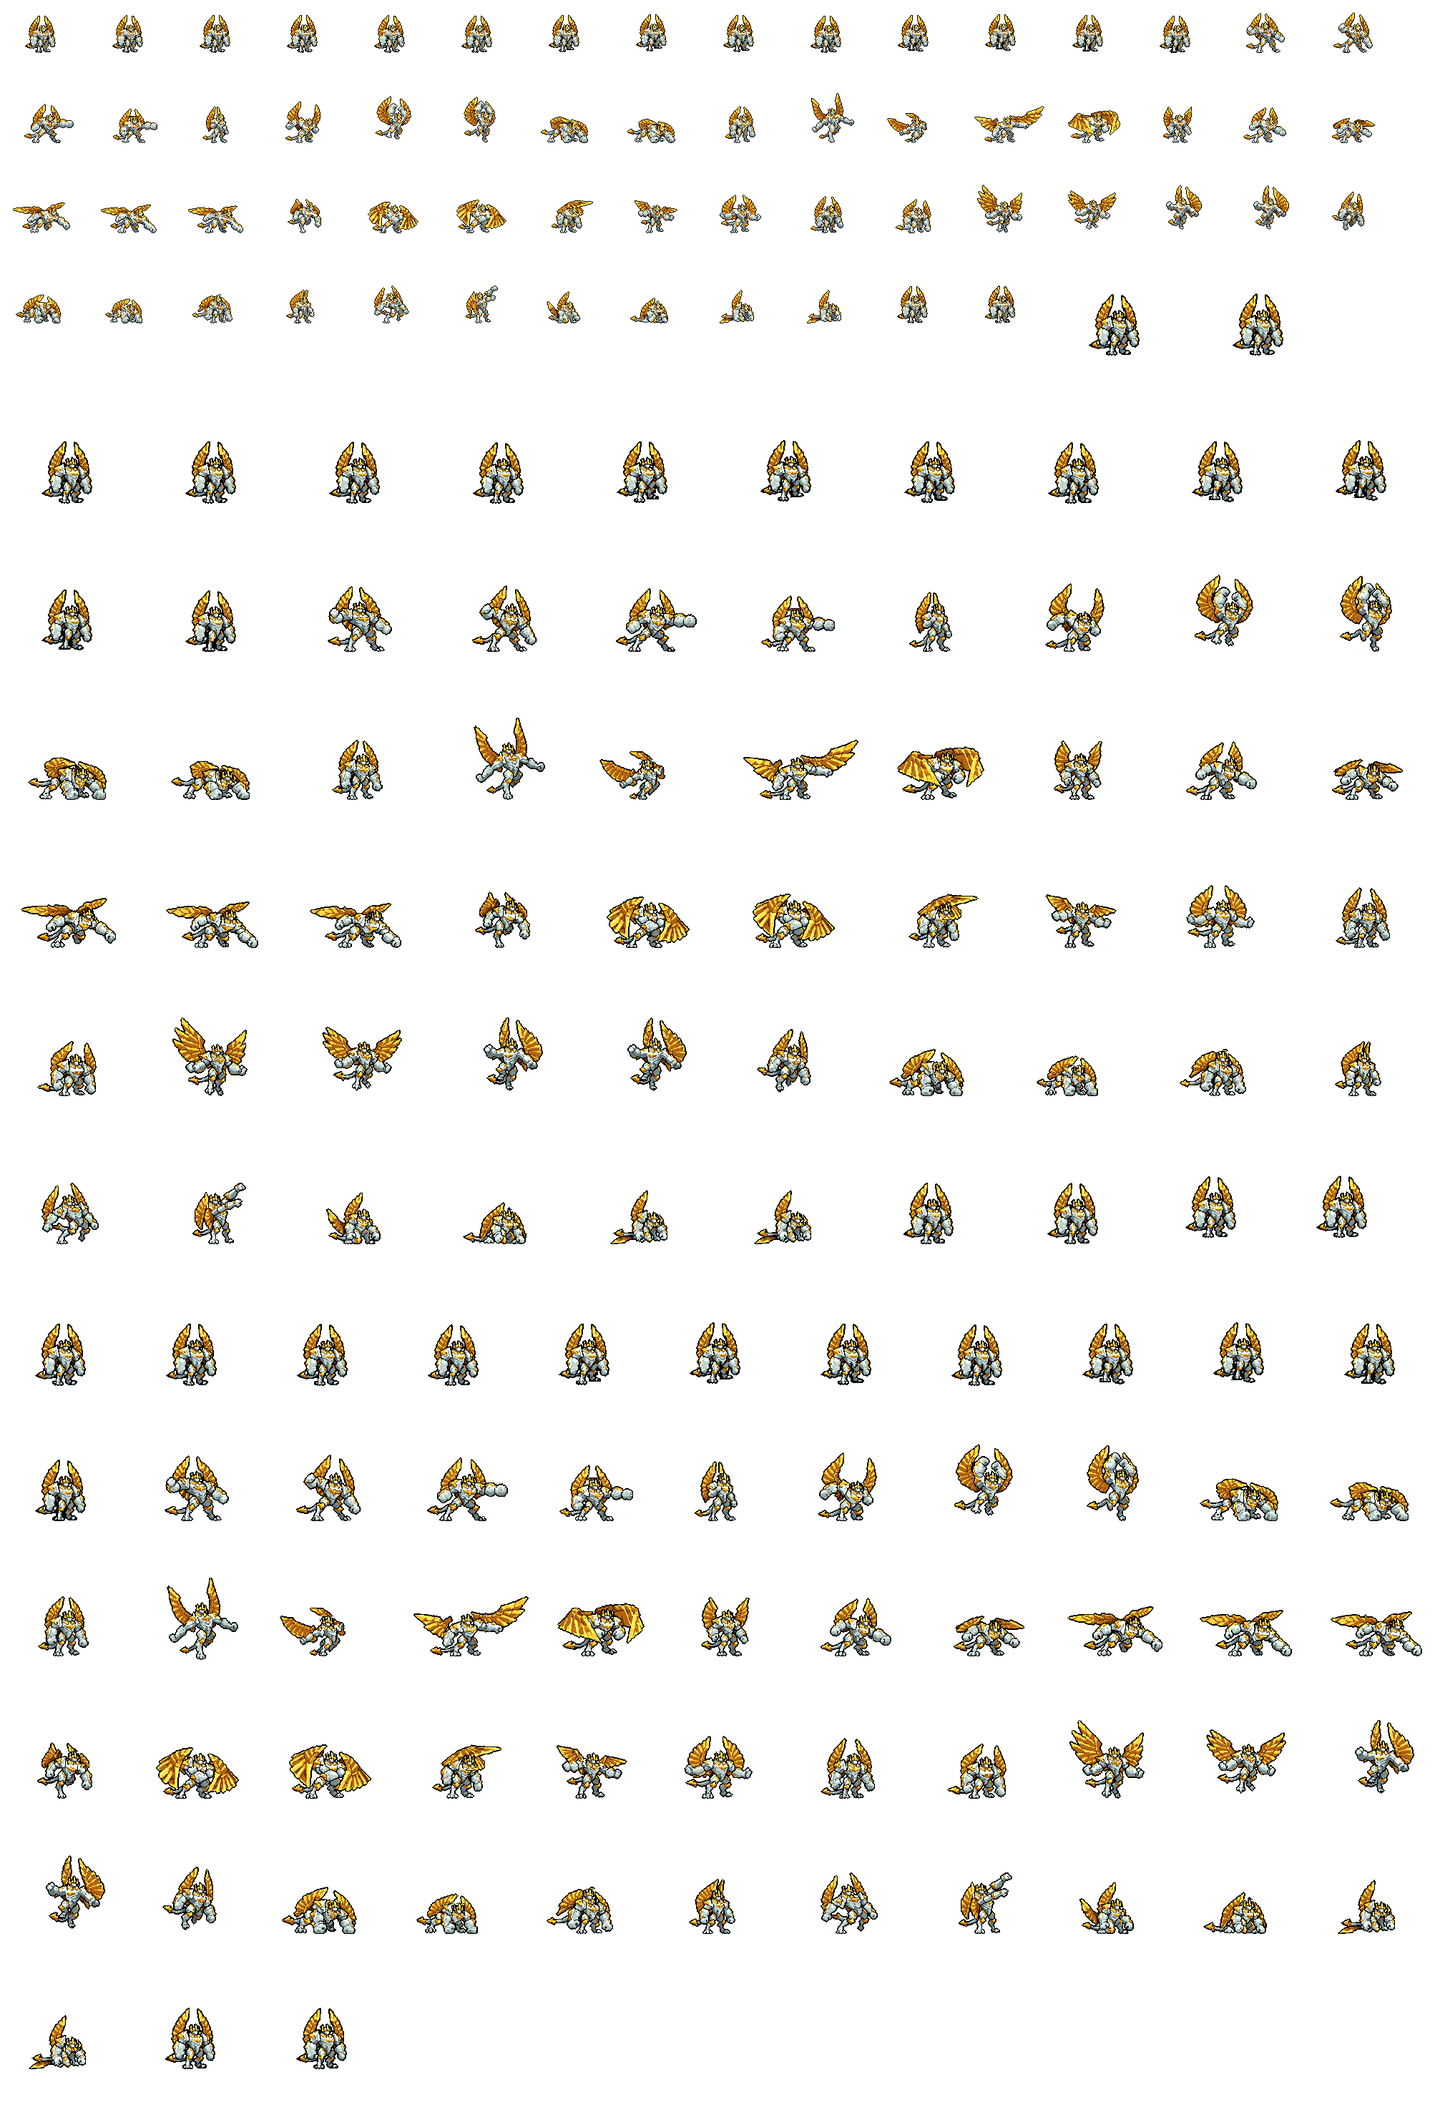
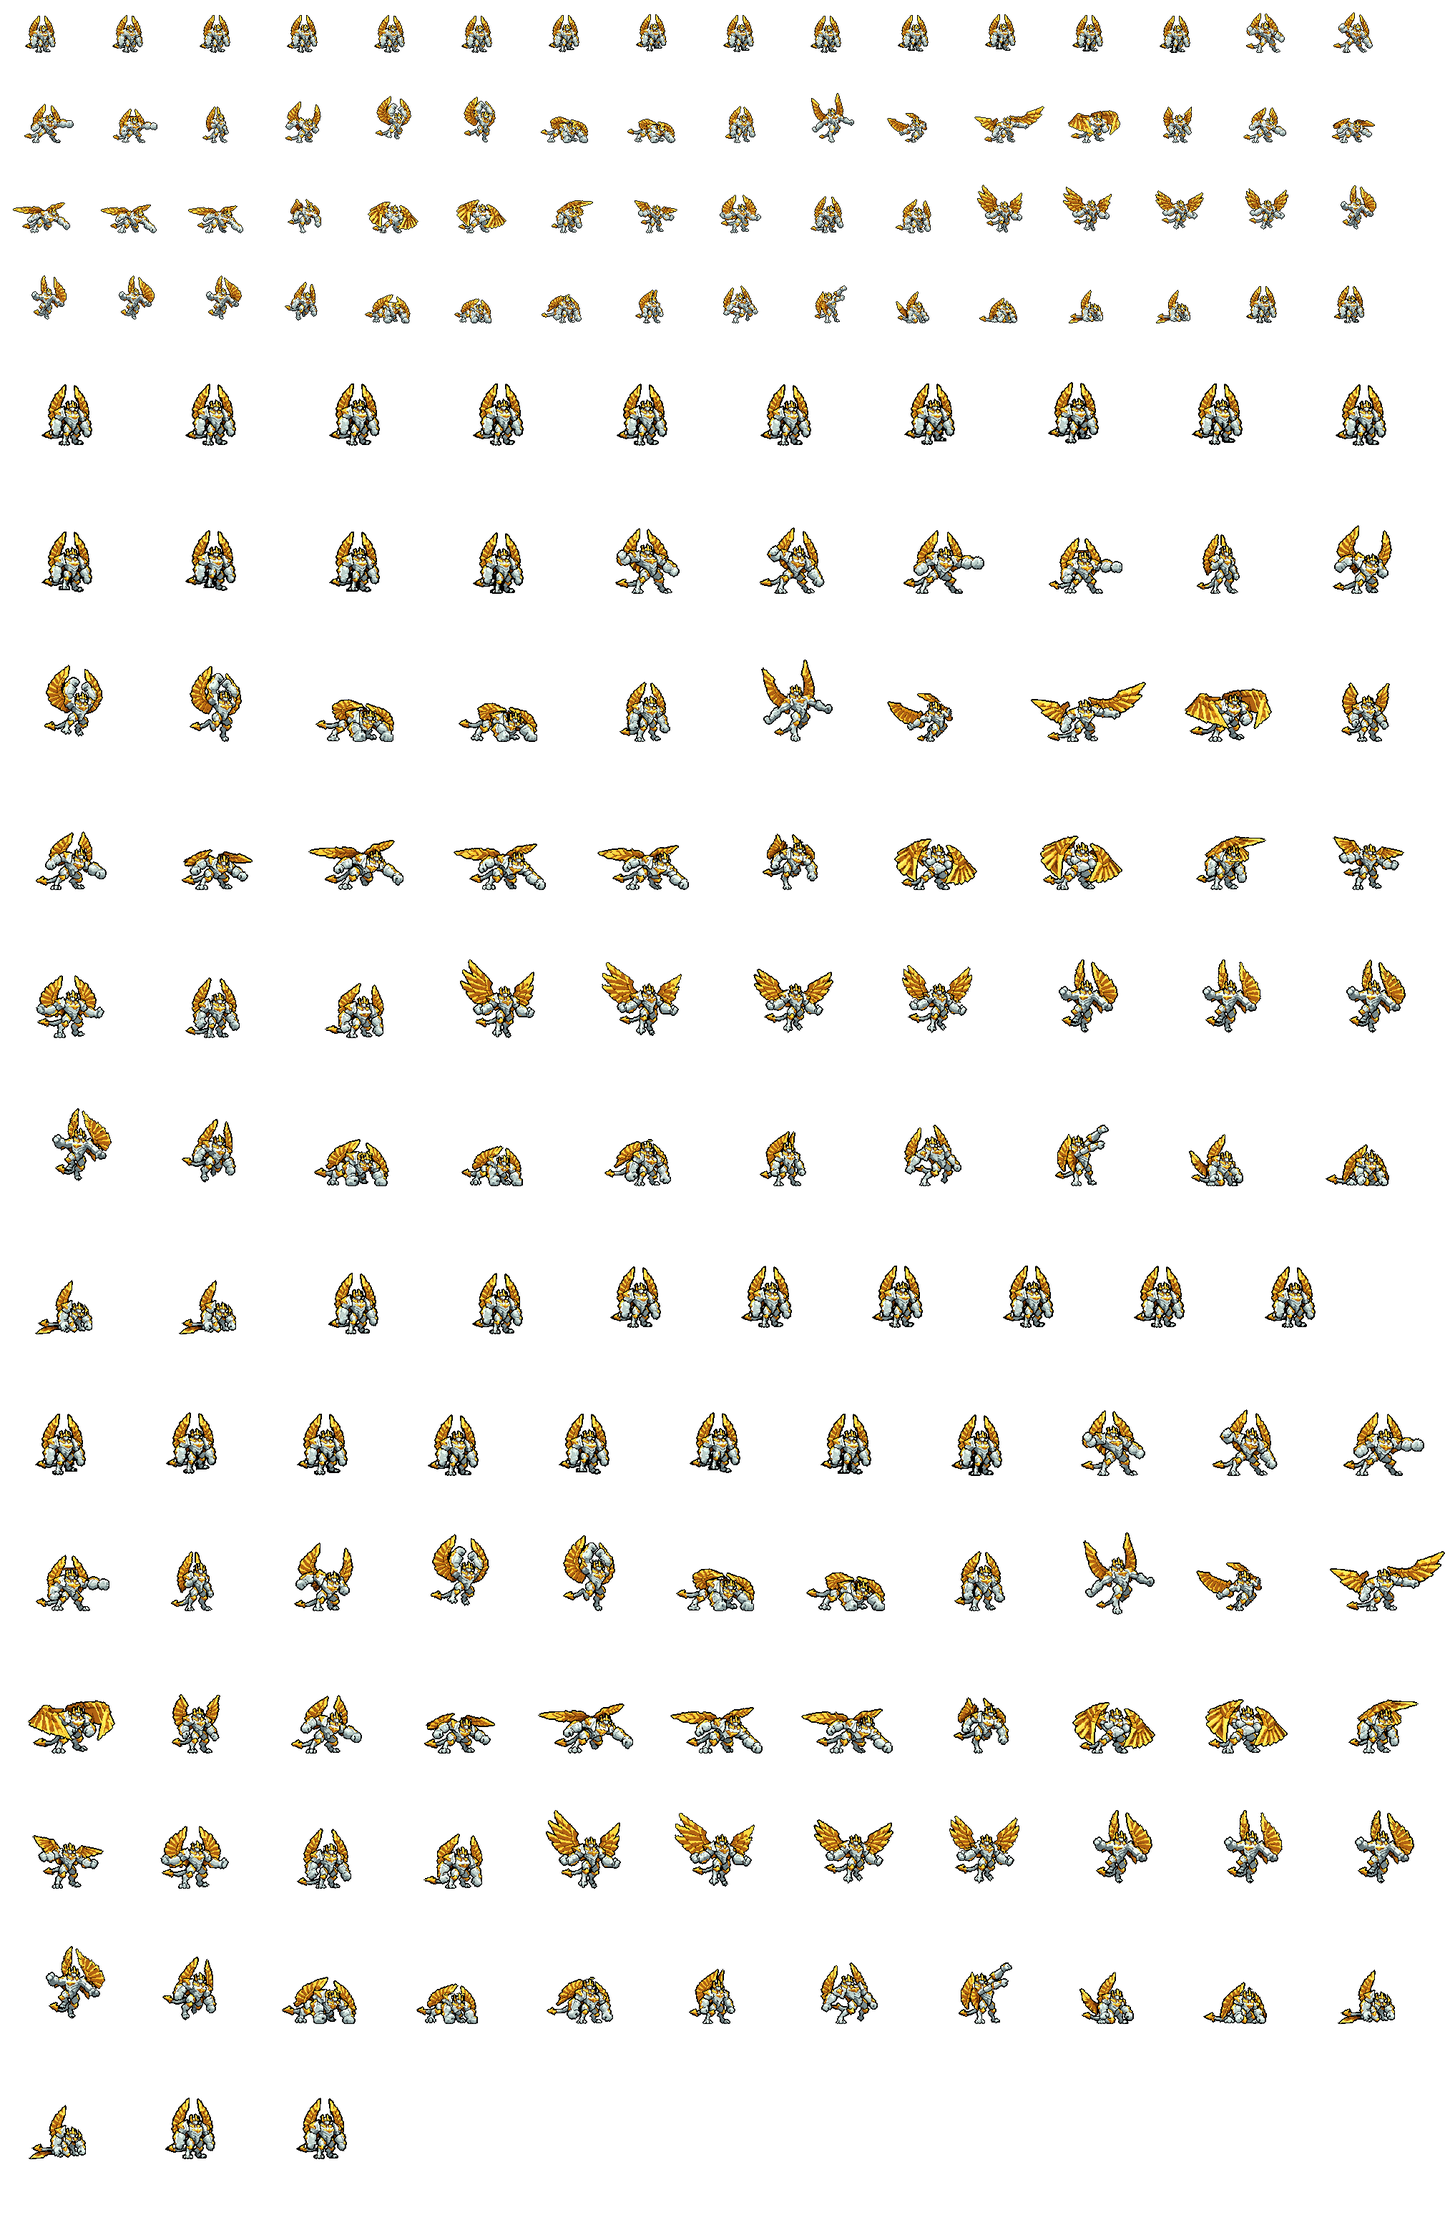
加里奥动作补帧：R 起跳 3 帧 -> 5 帧 5 姿势、R 悬停 2 帧 -> 4 帧 4 姿势（翅膀绕肩转、远处的翅膀按行摆；中间帧用 Codex 自己的帧做）
用户：「还有有的动画感觉只有一帧 不如oppi的地方都要补 参考联盟的动画」「动画你觉得少的地方就想办法补」。
对照表里 R 英雄登场的起跳 3 帧 0.26 秒（蹲下、张翅起跳、在空中展翅）；起跳后整段引导（1.7 秒）放的悬停 ult_loop 只有
2 张、各 120 毫秒，两张只有羽毛花纹不一样，看起来是一张定住。Codex 那套里 R 只画了这几张（cells.json：起跳 3、悬停 2）。
没有新画，没有交给 Codex，没有用图像模型。数法：「几帧，其中几个不同的姿势」。

- 先确认谁写的图集：图集最后一次提交是 245de0a92（10-17，恢复 #326 删掉的文件），真正写它的是 357c99e59（10-14）的
  tools/art/rig_galio.py；他不走 ppu_restyle：rig_galio.py -> ppu_hd.py --hero galio -> hero_reels.py --hero galio 三步，
  在干净的树上重跑逐字节复现（图集、fanim、条带的 md5 都相同）
- tools/art/rig_galio.py：INB 表 + winged()：Codex 的原帧之后加中间帧——每只翅膀按颜色挑（WINGS：画布上的框里、和给定
  那格连着的金、棕色羽毛，连同外描边最多 3 格深，不含挨着石头的描边），交给 inbetween.vary 绕它从肩膀长出来的地方转
  （inbetween.spin，根部藏到肩后；翅膀在所有东西后面，转开不会露出没画的地方）；悬停时远处那只翅膀的根在头冠后面，只把
  头冠以上的部分按行整格往旁边摆（rows_wave，头冠那行不动，翅尖 k 列）。每帧核对翅膀以外逐格没变。动作：
  R 起跳：蹲下 60 | 张翅起跳 50 | 往上抬 4 格、翅膀往下展开 10 度 50 | 在空中展翅 50 | 翅膀往上收 12 度（往悬停去）50
  R 悬停：悬停 1 | 近处翅膀往外 8 度、远处翅尖往外 5 格 | 悬停 2 | 往里 6 度 / 3 格，4 x 60
- 时间：总时长不变（起跳 260 = r_wind 16 tick，里面没有判定；悬停一圈 240，引导时长是技能数据的，没碰），没有短于
  50 毫秒的新帧；tools/kit、.data_champion 没碰（11-07 改过的 R 引导只在数据里，这里只动帧）
- 大小：头、身子、手臂逐格没变；翅膀只转不缩，转完还是一样长；起跳那张抬的 4 格是到空中那张的 9 格的一半
- 其余动作（连同 hd_、lo_ 和待机共 33 个标签）逐帧像素、时长都没变；tools/art/hero_reels.json 不用改（待机剪 W 和普攻）。
  选人卡片还是 Q、E、R、普攻，R 那段五张都放（35 -> 37 帧，一圈还是 14930 毫秒）
- 图集和 fanim 重新生成：2020x2970 -> 2020x3096
- docs/heroes/league_galio.md「开发记录」加一行

不满意的地方：蹲下到起跳那一下还是一步跳过去（蹲着时左翅膀压在肩膀前面，转开会露出没画的肩膀，试过、放弃）；转过的
翅膀羽毛条纹比原画碎一点；W 引导的两张（翅膀裹在身前）没动：翅膀盖着身子，挪开会露出没画的地方。
[…]

diff --git a/tools/art/rig_galio.py b/tools/art/rig_galio.py
@@ -26,6 +26,10 @@ then adds the hd_ / lo_ tags). Drawn at PPU 2.0 (76 squares crown to soles = 38 
 100 % and 1.5 squares a game pixel - the user, 2026-10-13: 「加里奥在局内看起来太小了」「而且在局内还是太高清了加里奥」
 (he was PPU 2.0 at 85 %), picked from sheets of 85-110 % and of 2.0 / 1.5 / 1.2 / 1 squares a game pixel (1 tried:
 「1太糊了 用1.5」).
+The in-betweens (tools/art/inbetween.py; the user, 2026-11-14: 「还有有的动画感觉只有一帧 不如oppi的地方都要补 参考联盟的动画」,
+「动画你觉得少的地方就想办法补」): Hero's Entrance's take-off and its hover get frames made from Codex's own - the wings turned
+about where they leave his shoulders, the far wing above his crown waved by rows (INB), everything else of the picture
+checked unchanged.
 """
 import argparse
 import io
@@ -43,6 +47,7 @@ ROOT = os.path.dirname(os.path.dirname(HERE))
 sys.path.insert(0, os.path.join(ROOT, ".claude", "skills", "tfm2-hero-mod", "scripts"))
 sys.path.insert(0, HERE)
 import design_galio_hd as DG  # noqa: E402
+import inbetween as IB  # noqa: E402
 import pixel_down as PD  # noqa: E402
 import strips as G  # noqa: E402
 
@@ -562,6 +567,115 @@ def walk_frame(idle, near_step, far_step, rise):
     return np.roll(out, -rise, axis=0)
 
 
+# ------------------------------------------------------------------------------------------------ the in-betweens
+# 2026-11-14: Hero's Entrance's take-off was three drawings in 260 ms (r_wind 16 ticks: crouched, leaping with the wings
+# up, in the air with them spread) and the hover he holds through the channel (1.7 s) two drawings 120 ms each that
+# differ only in the wings' feathers. Codex drew no more. Made from its own frames: each wing turned about where it
+# leaves his shoulder (inbetween.spin, the root going in under the shoulder; a wing lies behind everything, so nothing
+# undrawn shows) - and the hover's far wing, whose root is behind his crown, waved by rows above the crown instead
+# (rows_wave). WINGS: (tag, drawn frame) -> {wing: (box (x0, y0, x1, y1) on the canvas, a square of the wing, the
+# point it turns about or ("rows", the row it stays on, its tip's row))}; the wing is its warm squares (gold, brown,
+# the feathers' deep brown) in the box, in the piece holding that square, with its outline up to 3 squares deep where
+# the outline does not edge the stone. INB: tag -> ([(drawn frame, {wing: degrees clockwise on screen | columns at the
+# tip}, rows the whole frame is lifted)], ms): the leap's wings 10 degrees on their way down to the spread, lifted 4 of
+# the 9 rows to the airborne frame; the spread wings 12 degrees on their way back up to the hover's; the hover beats
+# - wings out (near 8 degrees, far tip 5 columns), back, in (6 / 3) - 4 x 60, still 240 a loop.
+WING_PAD = 30
+WINGS = {
+    ("ult", 1): {"left": ((15, 3, 82, 86), (40, 40), (77, 75)), "right": ((100, 20, 150, 86), (130, 50), (106, 75))},
+    ("ult", 2): {"left": ((25, 18, 85, 86), (50, 45), (80, 73)), "right": ((108, 20, 168, 86), (140, 45), (114, 72))},
+    ("ult_loop", 0): {"far": ((80, 0, 106, 42), (95, 20), ("rows", 42, 8)),
+                      "near": ((112, 5, 160, 90), (130, 40), (121, 64))},
+    ("ult_loop", 1): {"far": ((80, 0, 106, 42), (95, 20), ("rows", 42, 8)),
+                      "near": ((112, 5, 160, 90), (130, 40), (121, 64))},
+}
+INB = {"ult": ([(0, {}, 0), (1, {}, 0), (1, {"left": -10, "right": 10}, 4), (2, {}, 0), (2, {"left": 12, "right": -12}, 0)],
+               [60, 50, 50, 50, 50]),
+       "ult_loop": ([(0, {}, 0), (0, {"far": -5, "near": 8}, 0), (1, {}, 0), (1, {"far": 3, "near": -6}, 0)],
+                    [60, 60, 60, 60])}
+
+
+def warm(a):
+    """The gold and brown squares (the wings, the crown, the trims; not the stone, not the outline)."""
+    rgb = a[..., :3].astype(int)
+    r, g, b = rgb[..., 0], rgb[..., 1], rgb[..., 2]
+    deep = (rgb.sum(-1) >= 70) & (r >= g) & (g >= b) & (r - b >= 10)        # the feathers' deep brown (44, 35, 30)
+    return (a[..., 3] > 0) & (((r > 90) & (r > b + 50)) | deep)
+
+
+def wing_mask(a, box, seed, depth=3):
+    """A wing on a canvas: its warm squares in box (x0, y0, x1, y1 incl.) in the piece holding seed (x, y), with the
+    outline round them `depth` squares deep where it does not edge the stone."""
+    x0, y0, x1, y1 = box
+    inb = np.zeros(a.shape[:2], bool)
+    inb[y0:y1 + 1, x0:x1 + 1] = True
+    lab, _ = ndimage.label(warm(a) & inb, structure=np.ones((3, 3)))
+    if not lab[seed[1], seed[0]]:
+        sys.exit(f"wing_mask: {seed} is not a wing square")
+    m = lab == lab[seed[1], seed[0]]
+    dark = (a[..., 3] > 0) & (a[..., :3].astype(int).sum(-1) < 70) & inb
+    stone = (a[..., 3] > 0) & ~warm(a) & ~dark
+    edge = ndimage.binary_dilation(stone, structure=IB.CROSS)
+    for _ in range(depth):
+        grow = ndimage.binary_dilation(m, structure=IB.CROSS) & dark & ~m & ~edge
+        if not grow.any():
+            break
+        m |= grow
+    return m
+
+
+def rows_wave(shape, y0, y1, k):
+    """The moves of a rising wing's sway (rig_aurelionsol's): its whole rows shifted sideways, nothing on row y0 and k
+    columns (negative: to the left) on row y1 at its tip, the rows past the tip going with it. -> (dx, dy) arrays."""
+    H, W = shape[:2]
+    dx = np.zeros((H, W), int)
+    for y in range(H):
+        t = min(max((y - y0) / (y1 - y0), 0.0), 1.0)
+        dx[y, :] = int(round(k * t))
+    return dx, np.zeros((H, W), int)
+
+
+def mask_runs(m):
+    """A mask as row runs (x0, y, x1, y), boxes for inbetween.vary."""
+    out = []
+    for y in range(m.shape[0]):
+        xs = np.nonzero(m[y])[0]
+        if not len(xs):
+            continue
+        cut_ = np.nonzero(np.diff(xs) > 1)[0]
+        out += [(int(p), y, int(q), y) for p, q in zip(np.r_[xs[0], xs[cut_ + 1]], np.r_[xs[cut_], xs[-1]])]
+    return out
+
+
+def winged(can, tag, i, turns, lift):
+    """A drawn canvas with its wings turned / waved (inbetween.vary: the rest checked unchanged), `lift` rows higher."""
+    if not turns and not lift:
+        return can.copy()
+    out = can
+    if turns:
+        spec = WINGS[(tag, i)]
+        parts = {w: mask_runs(wing_mask(can, spec[w][0], spec[w][1])) for w in turns}
+        spins, moves = [], []
+        for w, k in turns.items():
+            about = spec[w][2]
+            if about[0] == "rows":
+                moves.append((w, rows_wave(can.shape, about[1], about[2], k), "under"))
+            else:
+                spins.append((w, about, k, "under"))
+        big = IB.vary(can, parts, OUTLINE, moves=moves, spins=spins, pad=WING_PAD, name=f"{tag} {i} wings {turns}")
+        P = WING_PAD
+        inner = np.zeros(big.shape[:2], bool)
+        inner[P:-P, P:-P] = True
+        if (big[..., 3][~inner] > 0).any():
+            sys.exit(f"{tag} {i}: a turned wing leaves the canvas")
+        out = big[P:-P, P:-P].copy()
+    if lift:
+        if (out[:lift, :, 3] > 0).any():
+            sys.exit(f"{tag} {i}: lifted off the canvas")
+        out = np.roll(out, -lift, axis=0)
+    return out
+
+
 def actions():
     table, pal = lut()
     cells = json.load(open(os.path.join(CODEX, "cells.json"), encoding="utf-8"))
@@ -577,6 +691,9 @@ def actions():
            "run": [(pinholes(close_all(specks(walk_frame(idle, n_, f_, r_))), 2), WALK_MS) for n_, f_, r_ in WALK]}
     for tag in TAGS:
         out[tag] = [(frame(tag, f["index"] + 1, table, pal), f["ms"]) for f in sorted(by_tag[tag], key=lambda f: f["index"])]
+    for tag, (seq, ms_) in INB.items():                  # (the drawn frames, then the in-betweens made from them)
+        drawn = [c for c, _ in out[tag]]
+        out[tag] = [(winged(drawn[i], tag, i, turns, lift), m) for (i, turns, lift), m in zip(seq, ms_)]
     out["hit"] = [(on_canvas(d, dx=-2), 80.0), (on_canvas(d, dx=-1), 120.0)]
     return out
 

diff --git a/docs/heroes/league_galio.md b/docs/heroes/league_galio.md
@@ -86,6 +86,7 @@
 | 特效 | Codex 生图的 17 张（用户贴来的一张总览图，[`tools/art/import_galio.py`](../../tools/art/import_galio.py) 按卡萨丁 / 布隆的做法切格：去掉深色底、每个特效一个缩放、颜色贴回风 / 蓝色魔法 / 金色 / 尘土 / 碎石五套配色；w_ps 里 Codex 画的人形剪影去掉；风刃的细线先加粗再缩；只画了一两帧的按生长、循环、淡出补齐，龙卷风按颜色在轮廓里往上滚表现旋转）。红色方的对称逐格检查：风刃上下对称、沿飞行方向转，其余全部左右对称。龙卷风和大招引导各铺满 2 秒。大招落地一开始只闪 60 毫秒、GIF 里看不出（用户：「大招落地的效果没有？怎么gif图里看不出」），改成停 650 毫秒、画在单位上面；用户又说「这个R的特效做大点啊」「加里奥的R特效这么小？」，落地冲击环从 46 宽放到 84（正好盖住 22000 的落地范围），引导的金光 50 → 64 高，打中 24 → 32 |
 | 音效 | 英雄联盟的音效和配音（`tools/lol/extract_galio.py`）：石拳 / 打中、被动蓄力 / 砸中、Q 扇风 / 龙卷风、E 冲出 / 打中、W 举盾 / 放开、R 起飞 / 给队友的护盾 / 落地；Q、W、E、R 各用他自己的台词（片段名 `league_galio_sfx_vo_*`，和声音名不同）。版权属于 Riot Games，**不提交到仓库**，按下面的命令在本地生成 |
 | 图标 | 官方技能图标（Q 战争罡风 / E 正义冲拳 / R 英雄登场，另有 W 杜朗护盾、被动），从本地客户端提取，缩到 64×64 |
+| 动作补帧（2026-11-14） | 用户：「还有有的动画感觉只有一帧 不如oppi的地方都要补 参考联盟的动画」「动画你觉得少的地方就想办法补」。对照表里 R 英雄登场的起跳只有 3 帧 0.26 秒（蹲下、张翅起跳、在空中展翅）；起跳后整段引导（1.7 秒）放的悬停只有 2 张、各 120 毫秒，两张只有羽毛的花纹不一样，看起来就是一张定住。Codex 那套里 R 只画了这几张。没有新画，也没交给 Codex：[`tools/art/inbetween.py`](../../tools/art/inbetween.py) 用 Codex 自己的帧做中间帧——每只翅膀按颜色挑出来（金、棕色的羽毛连同外描边），绕它从肩膀长出来的地方转（RotSprite 的办法，任意角度），根部藏到肩后；悬停时远处那只翅膀的根在头冠后面，只把头冠以上的部分按行整格往旁边摆；其余逐格不变（[`tools/art/rig_galio.py`](../../tools/art/rig_galio.py) 的 INB 表，每帧核对）。下面写的是「几帧，其中几个不同的姿势」。**R 起跳** 3 帧（3 个姿势）→ 5 帧，其中 5 个：蹲下 60 毫秒；张翅起跳 50；往上抬 4 格、翅膀往下展开 10 度 50；在空中展翅 50；翅膀往上收 12 度（往悬停的样子去）50，一共还是 260 毫秒（技能数据的 16 tick，里面没有判定）。**R 悬停** 2 帧（2 个）→ 4 帧，其中 4 个：拍一下翅膀——近处的翅膀往外 8 度、远处的翅尖往外 5 格，回来，再往里 6 度 / 3 格，每张 60 毫秒，一圈还是 240 毫秒。技能数据没改；其余动作逐帧没变。每帧 3 倍、转过的翅膀 6–7 倍看过，翅膀转完还是一样长。待机剪的还是 W 和普攻（`hero_reels.json` 不用改）；选人卡片还是 Q、E、R、普攻，R 那段五张都放（35 → 37 帧，一圈还是 14930 毫秒）。图集 2020×2970 → 2020×3096，选人格子用的那张 4.70 → 5.22 MiB。游戏里还没看过 |
 
 重新生成（素材来自本机的英雄联盟客户端，音频不进仓库）：
 
